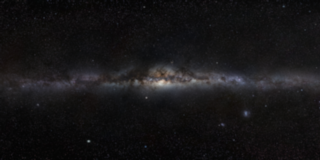
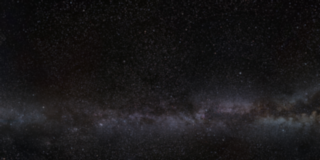
Crop Fig. 5 to the star field above the galactic band
The earlier crop centred the bright band, which is the flat part of the
transfer curve, so the loss stayed at a fifth and read as a slight haze.
Cropping to dark sky with the band along the bottom edge shows what the
byte average actually does to the stars while keeping the frame worth
looking at. Empty sky alone reaches 36 %, but a nearly black rectangle
makes a poor figure.

diff --git a/images/CREDITS.md b/images/CREDITS.md
@@ -19,17 +19,19 @@ downloaded from the Commons page above):
 ```sh
 cargo run --release --bin gamma_thumbnails -- \
     --input ESO_-_Milky_Way.jpg --out-dir blog/images \
-    --levels 4 --crop 440,220,5120,2560 --name gamma-thumb
+    --levels 3 --crop 0,600,2560,1280 --name gamma-thumb
 ```
 
-Generator: `fovea-examples/src/gamma_thumbnails.rs`. One crop, four halving
+Generator: `fovea-examples/src/gamma_thumbnails.rs`. One crop, three halving
 steps of Gaussian blur plus decimation, identical in both paths. The generator
-prints the measured difference; for this crop the naive thumbnail is 19.9 %
-darker in mean linear luminance, worst single channel off by 43 codes out of
-255. A star field is the strong case, because a single bright pixel among
-fifteen dark ones lands on code 16 when the bytes are averaged and on 71 when
-the light is. An ordinary backlit photograph loses around 3 % under the same
-treatment — visible in a measurement, not to the eye.
+prints the measured difference; for this crop the naive thumbnail is 21.7 %
+darker in mean linear luminance, worst single channel off by 35 codes out of
+255. A crop of empty sky without the galactic band reaches 36 %.
+
+A star field is the strong case, because a single bright pixel among fifteen
+dark ones lands on code 16 when the bytes are averaged and on 71 when the light
+is. An ordinary backlit photograph loses around 3 % under the same treatment —
+real, measurable, and invisible to the eye.
 
 The full-size original is deliberately not committed; it can be re-downloaded
 from the Commons page whenever the figure needs regenerating.
